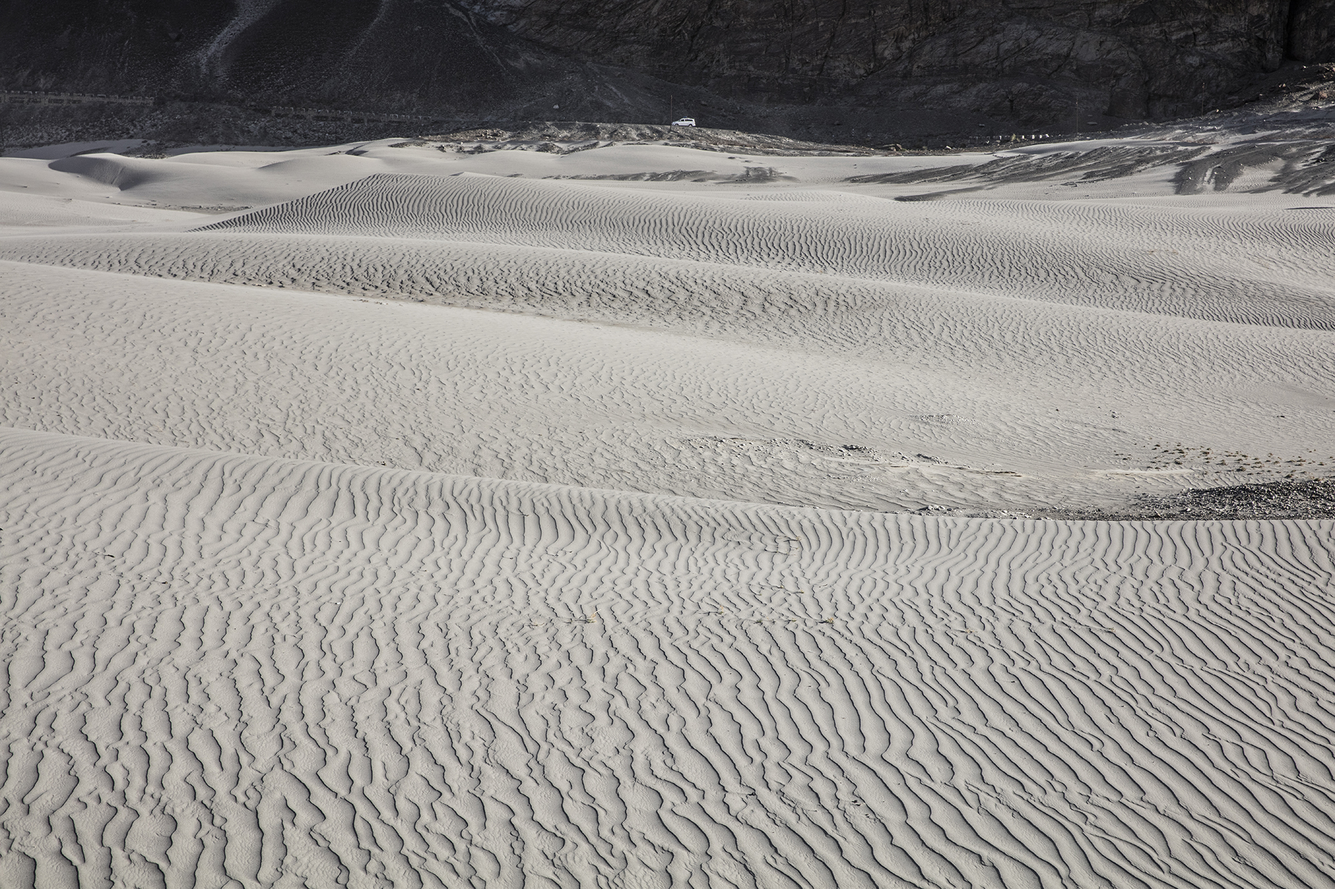
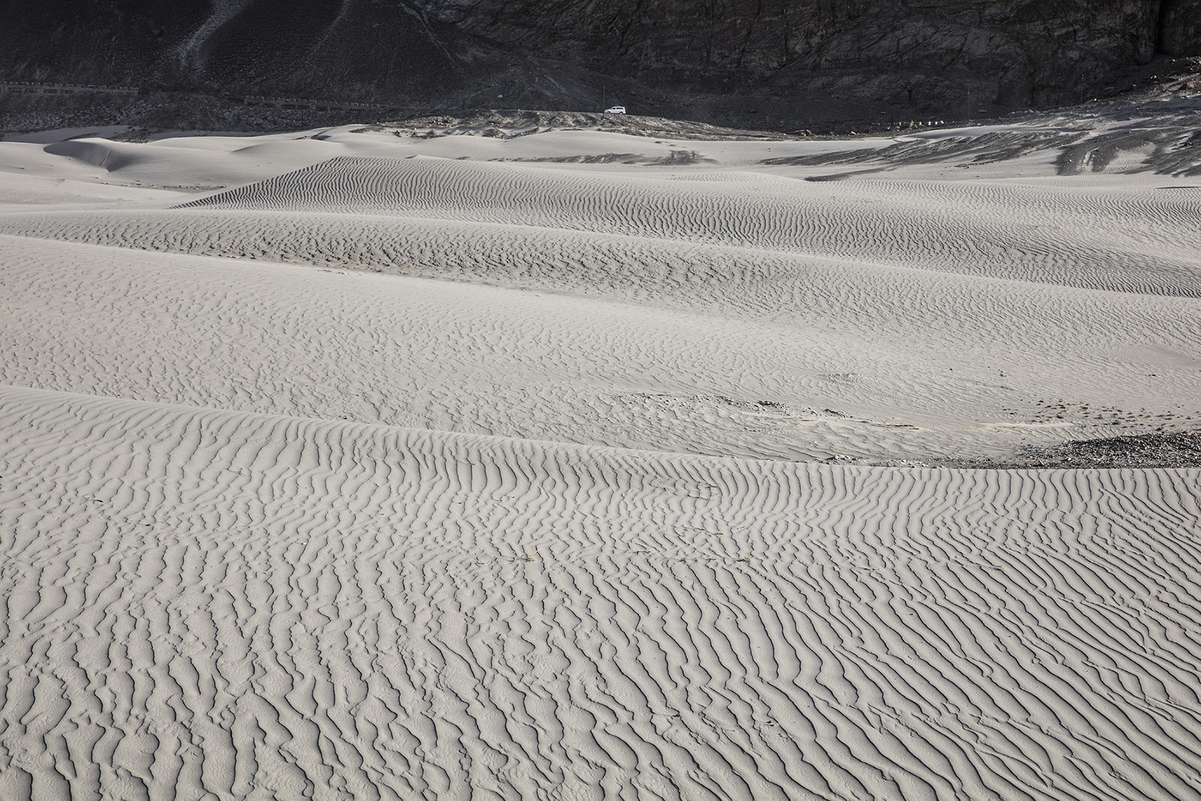
added a new header photo, made a new name div for header

Changed region(s): [[0.9022, 0.555, 1.0, 0.5858]]

diff --git a/index.html b/index.html
@@ -10,7 +10,7 @@
   <!-- mobile -->
   <meta name="viewport" content="width=device-width, initial-scale=1" />
 
- <!--  Bootstrap --> 
+ <!--  Bootstrap -->
 
   <link href="https://maxcdn.bootstrapcdn.com/bootstrap/3.3.7/css/bootstrap.min.css" rel="stylesheet" integrity="sha384-BVYiiSIFeK1dGmJRAkycuHAHRg32OmUcww7on3RYdg4Va+PmSTsz/K68vbdEjh4u" crossorigin="anonymous">
 
@@ -27,11 +27,12 @@
 
 </head>
 <body>
-  <header>
+
+  <!-- <header>
 
     <img id="yasuPhoto" src="http://i.imgur.com/96W2jDt.jpg" alt="photo of yasu">
     <h1>Yasuyoshi Sakamoto</h1>
-    
+
     <ul id="headerNav">
       <div><a href="https://github.com/yasuper8">Github</a></div>
       <div><a href="https://www.linkedin.com/in/yasuyoshi-sakamoto-ba74356a?trk=hp-identity-name">Linkedin</a>
@@ -39,7 +40,26 @@
       <div><a href="http://cargocollective.com/yasuphotography">Photography</a>
       </div>
     </ul>
-  </header>
+  </header> -->
+
+
+  <div id="wrapper-head">
+    <img id="headerPhoto" src="http://i.imgur.com/agqb4rd.jpg" alt="Mt. Everest" />
+    <div id="my-name">Yasuyoshi Sakamoto    
+    </div>
+    <img id="yasuPhoto" src="http://i.imgur.com/96W2jDt.jpg" alt="photo of yasu">
+
+  </div>
+    <h1>Yasuyoshi Sakamoto</h1>
+
+    <ul id="headerNav">
+      <div><a href="https://github.com/yasuper8">Github</a></div>
+      <div><a href="https://www.linkedin.com/in/yasuyoshi-sakamoto-ba74356a?trk=hp-identity-name">Linkedin</a>
+      </div>
+      <div><a href="http://cargocollective.com/yasuphotography">Photography</a>
+      </div>
+    </ul>
+
 
   <!-- I brought this code in from www.boothstrap.com -->
   <div id="contents">
@@ -69,7 +89,7 @@
       <span class="sr-only">Next</span>
     </a>
     </div>
-    <div>    
+    <div>
 
     <div id="page-wrapper">
 

diff --git a/assets/css/main.css b/assets/css/main.css
@@ -1,8 +1,30 @@
 /* custom styles */
 
+
+body {
+
+}
+
+
 header {
 	height: 14em;
 	background-color: lightgray;
+	/*background-image: url("http://i.imgur.com/agqb4rd.jpg");*/
+}
+
+#headerPhoto {
+	max-width: 100%;
+	position: relative;
+}
+#my-name {
+	position: absolute;
+	height: 3em;
+	top: 1.8em;
+	background-color: #ddd;
+	padding: 2em;
+	text-align: center;
+	border-radius: 0 10px 10px 0;
+
 }
 
 #yasuPhoto {
@@ -12,6 +34,8 @@ header {
 	margin: 0 40%;
 	margin-top: 2em;
 	display: inline-block;
+	color: #444;
+
 }
 
 h1 {
@@ -40,7 +64,7 @@ a {
 .projectLinks {
 	width: 45%;
 	height: 10em;
-	background-color: lightblue;
+	background-color: #CDEAC0;
 	display: inline-block;
 	margin: 1em auto;
 	text-align: center;
@@ -49,8 +73,12 @@ a {
 }
 
 #headerNav div {
- display: inline-block;
  margin: 0 1em;
  margin-left: 1.5em;
+ float:right;
 }
 
+
+/*#headerNav div li {
+	display: inline-block;
+}*/
